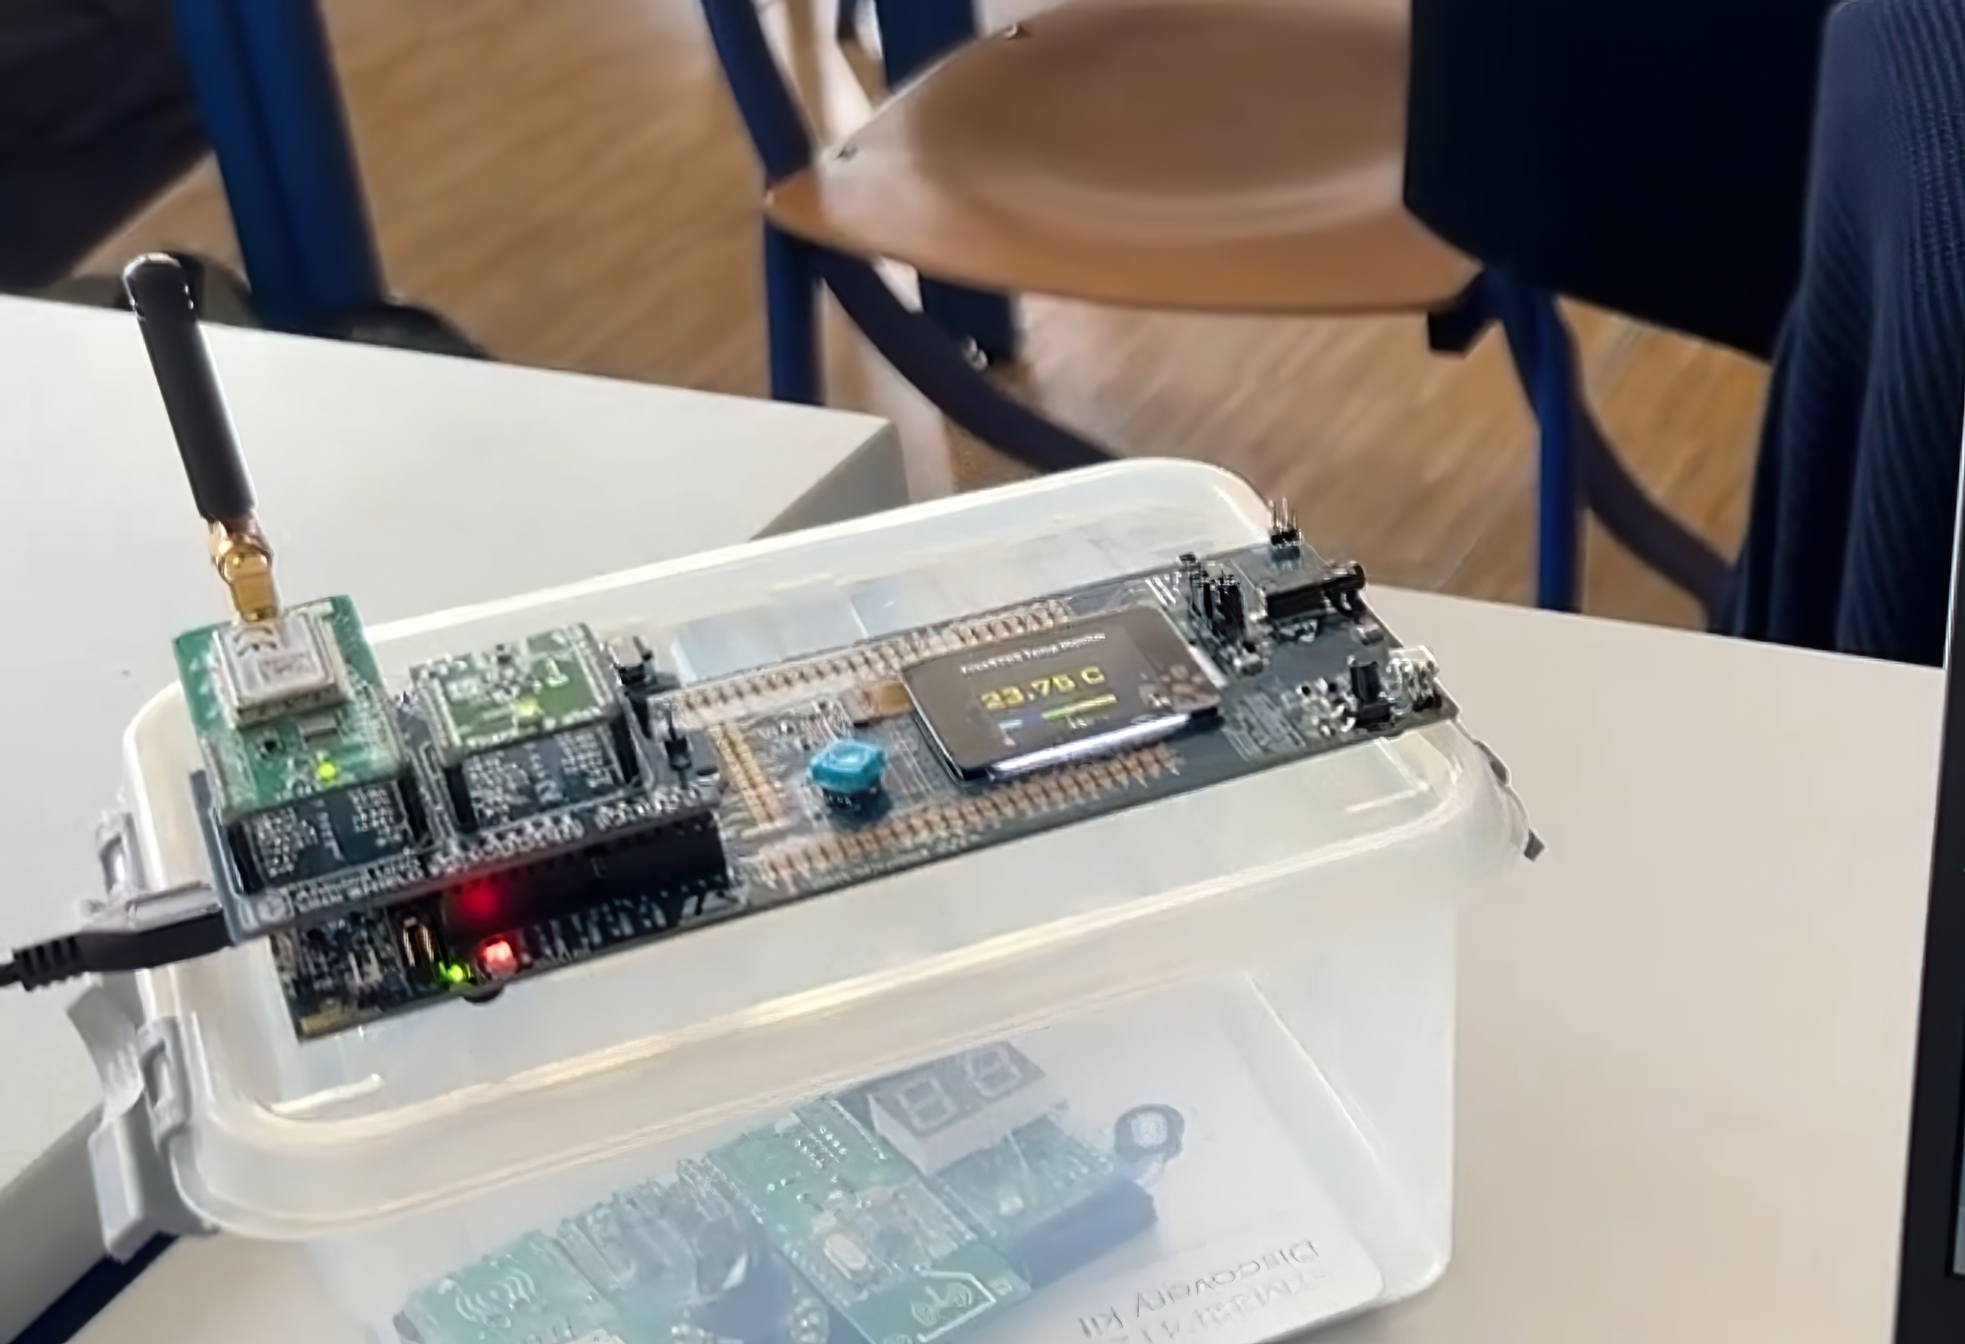
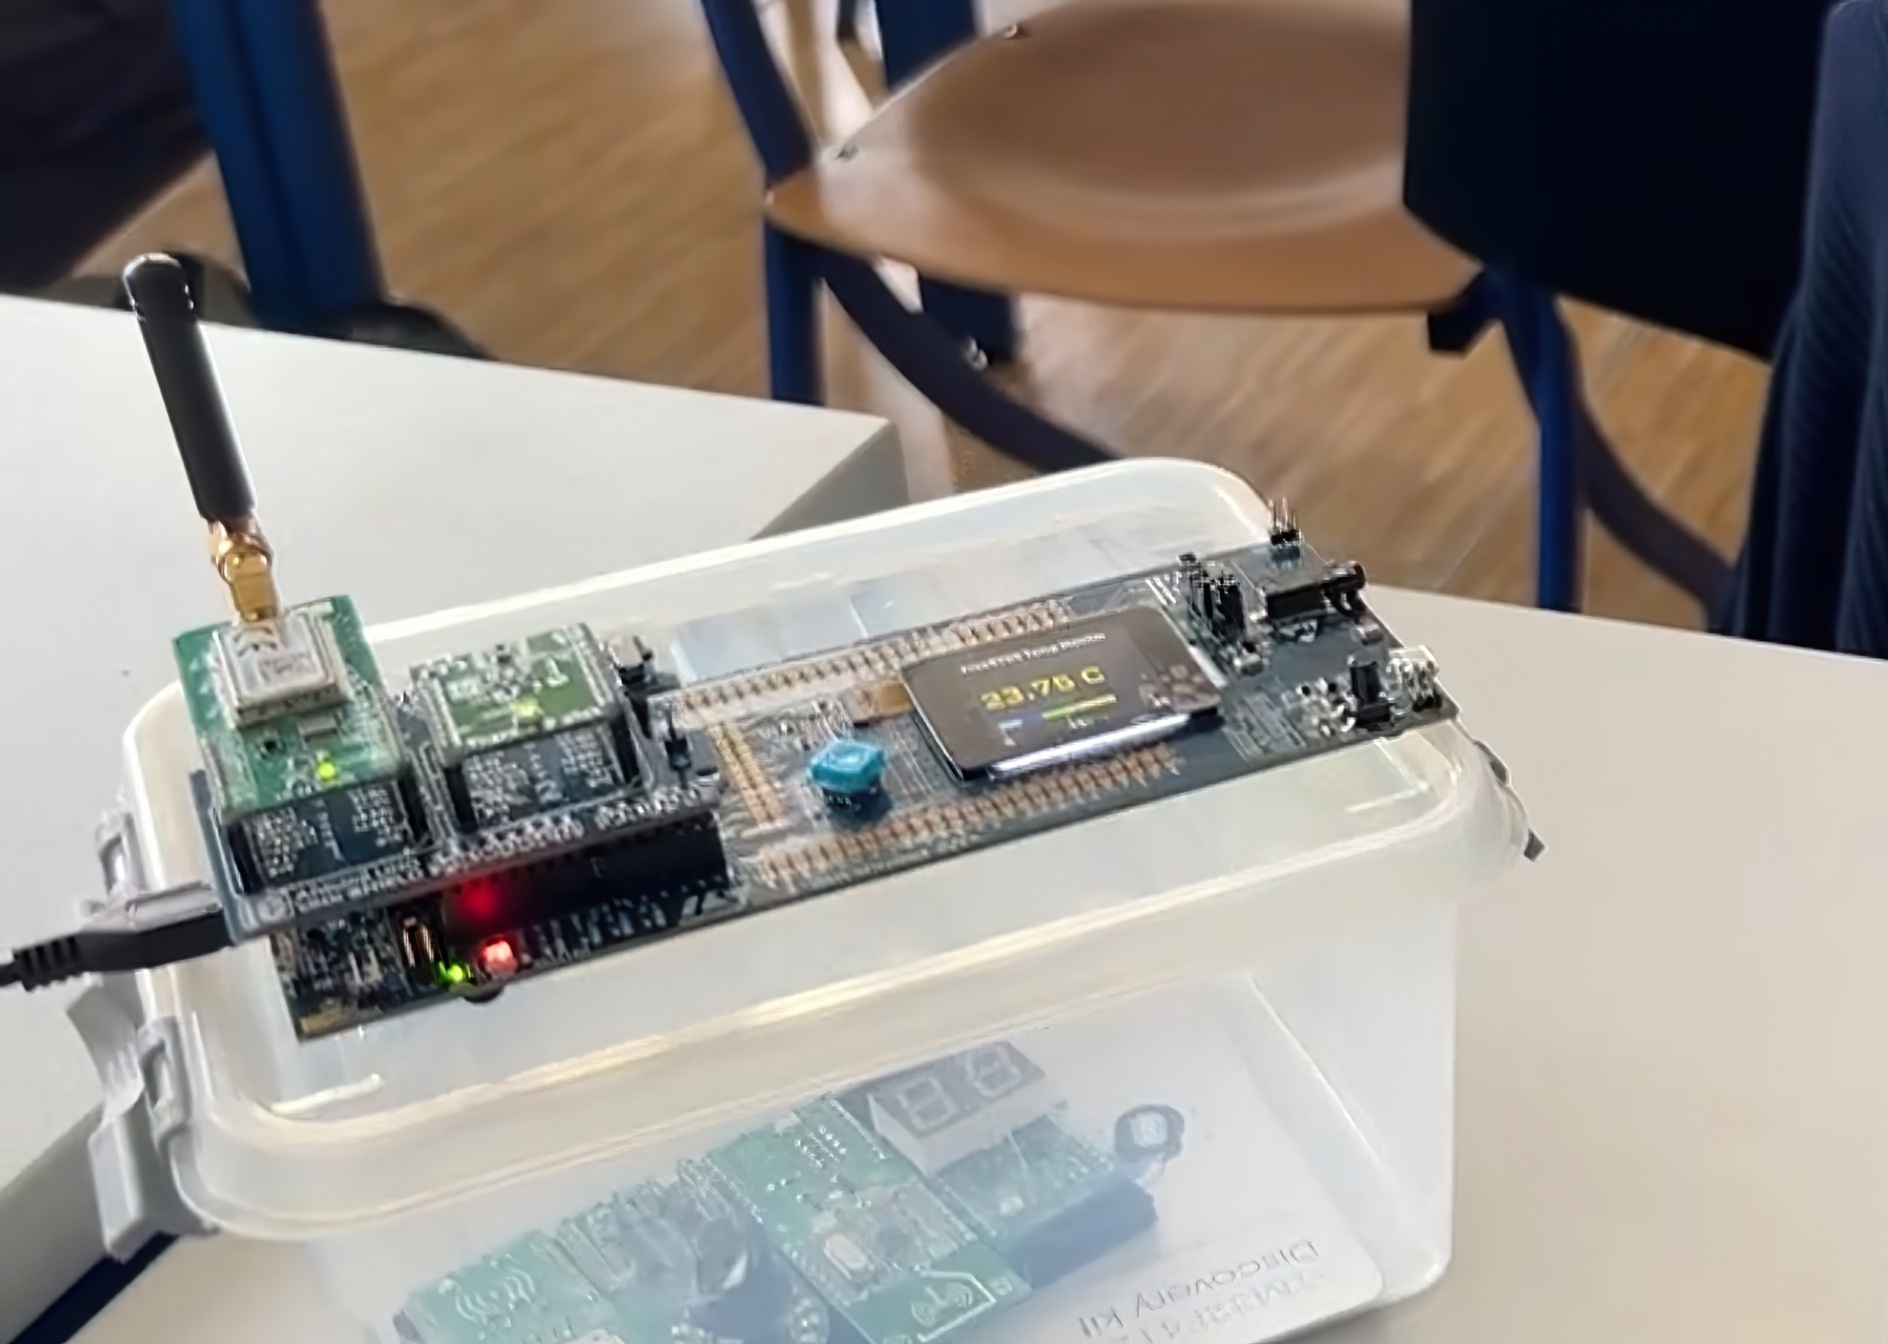
add: infrastructure réseau project

diff --git a/web-template/src/content/work/_ignored-project.md b/web-template/src/content/work/_ignored-project.md
@@ -12,7 +12,17 @@ tags:
   - Backend
 ---
 
-Lorem ipsum dolor sit amet, consectetur adipiscing elit. Curabitur posuere commodo venenatis. Pellentesque habitant morbi tristique senectus et netus et malesuada fames ac turpis egestas. Nam non ligula vel metus efficitur hendrerit. In hac habitasse platea dictumst. Praesent et mauris ut mi dapibus semper. Curabitur tortor justo, efficitur sit amet pretium cursus, porta eget odio. Cras ac venenatis dolor. Donec laoreet posuere malesuada. Curabitur nec mi tempor, placerat leo sit amet, tincidunt est. Quisque pellentesque venenatis magna, eget tristique nibh pulvinar in. Vestibulum vitae volutpat arcu. Aenean ut malesuada odio, sit amet pellentesque odio. Suspendisse nunc elit, blandit nec hendrerit non, aliquet at magna. Donec id leo ut nulla sagittis sodales.
+## Level-two heading
+
+> Tell me and I forget. Teach me and I remember. Involve me and I learn.
+
+Lorem ipsum dolor sit amet, <a href="https://astro.build/">Astro</a> makes people happy. Sed do eiusmod tempor incididunt ut labore et dolore magna aliqua. Proin nibh nisl condimentum id venenatis a condimentum vitae. Dapibus ultrices in iaculis nunc. Arcu odio ut sem nulla pharetra diam sit amet. Diam quis enim lobortis scelerisque fermentum dui faucibus in ornare.
+
+Arcu dui vivamus arcu felis bibendum ut tristique et egestas. Eget gravida cum sociis natoque penatibus. Cras fermentum odio eu feugiat pretium nibh. Proin nibh nisl condimentum id venenatis. Porta nibh venenatis cras sed felis eget velit. Id diam vel quam elementum pulvinar etiam non.
+### Also 
+  - test
+  - this
+
 
 Integer vitae nibh elit. Suspendisse eget urna eu neque bibendum pharetra. Sed interdum lectus sem, in pulvinar magna dignissim vel. Quisque maximus at urna nec laoreet. Suspendisse potenti. Vestibulum rhoncus sem ut mi pellentesque, in vestibulum erat blandit. Aliquam sodales dui ac maximus consectetur. Duis quis est vehicula, imperdiet nisl nec, fermentum erat. Duis tortor diam, pharetra eu euismod in, vehicula non eros. Curabitur facilisis dui at erat ultrices gravida. In at nunc ultricies, pulvinar mi vel, sagittis mauris. Praesent pharetra posuere purus ac imperdiet. Nulla facilisi.
 

diff --git a/web-template/src/content/work/connectivite-iot-avec-lorawan.md b/web-template/src/content/work/connectivite-iot-avec-lorawan.md
@@ -15,17 +15,19 @@ tags:
 
 ---
 
+## Connectivité IoT avec LoRaWAN
+
 Le but de ce projet étais d'apprendre le fonctionnement et l'utilisation du protocole _LoRa/LoRaWAN_ avec un cas d'utilisation simple : une station météo.
 
 La vue globale du système ce présente ainsi : la station récupère les données de température et d'humidité, elle les transmet par radio selon le protocole _LoRa/LoRaWAN_ à notre serveur de donnée. Les donnée sont ensuite mise en forme pour l'utilisateur dans un _dash board_. 
 
-**LoRa vs LoRaWAN**
+#### LoRa vs LoRaWAN
 
 _LoRa_ est le protocole radio utilisé par le composant éléctronique de la carte. Il permet de transmètre des messages à d'autres systèmes embarqués capable de les recevoirs. l'avantage de ce protocole est qu'il utilise très peu d'energie et qu'il permet d'envoyer des messages sur une disante d'environ 15km ce qui en fait un des meilleurs protocoles de communication sans fils pour les systèmes embarqués de terrain.
 
 _LoRaWAN_ est la technologie utilisée pour faire passer la communication des systèmes LoRa sur internet. Ceci fonctionne grâce à des modules de passerelles connectée à des serveurs officiels ou communautaires.
 
-**Approche de développement**
+#### Approche de développement
 
 Le language de code _C++_ permet une approche orientée objet du programme. Chaque composant éléctronique est alors représenté par une classe _C++_ qui est ensuite insenciée dans le programme principale. 
 Chacun de ces composant doit travailler simultanéement, c'est pourquoi nous avons utiliser le système d'exploitation _FreeRTOS_ qui nous a permis d'associer chaque action des composant à une tâche. Une fois le système en marche, _FreeRTOS_ s'occupe lui même d'agencer les tâches pour qu'elle fonctionnent en parallèle. 

diff --git a/web-template/src/content/work/infrastructure-reseau.md b/web-template/src/content/work/infrastructure-reseau.md
@@ -1,0 +1,32 @@
+---
+title: Infrastructure réseau
+draft : false
+publishDate: 2026-02-08 00:00:00
+img: /assets/stock-1.jpg
+img_alt: Iridescent ripples of a bright blue and pink liquid
+description: |
+  Projet de semestre : Conception architechture réseau complète selon le cahier des charges d'une entreprise fictive GreenSoft.
+tags:
+  - Réseau
+  - Arichitecture
+  - Déploiement
+---
+
+
+
+### Approche
+
+Nous avons reçu comme consigne de créer une infrastrucure réseau d'entreprise selon un cahier des charge qui présentait les besoins d'une entreprise fictive nommée GreenSoft.
+
+Nous sommes partis du cahier des charges pour comprendre les besoins du client afin de présenter un document d'*analyse de solutions* concrètes. Analyser les différentes solutions du marché permet de rester à jour fasse à *l'évolution constante des technologies* et permet de présenter des *alternatives* si besoin.
+
+Par exemple :
+
+### Architecture
+
+Une fois l'analyse terminée et les choix de solutions définis, vient l'étape de _designer_ l'architecture du réseau. C'est une étape cruciale dans laquelle on _design_ deux représentations du réseau : le schéma *logique* et *physique*. Ces schémas appuie l'étape du déploiement et ils sont indispensable pour le bon déroulement du travail.
+
+#### Déploiement
+
+- We noted this
+- And also this other point
